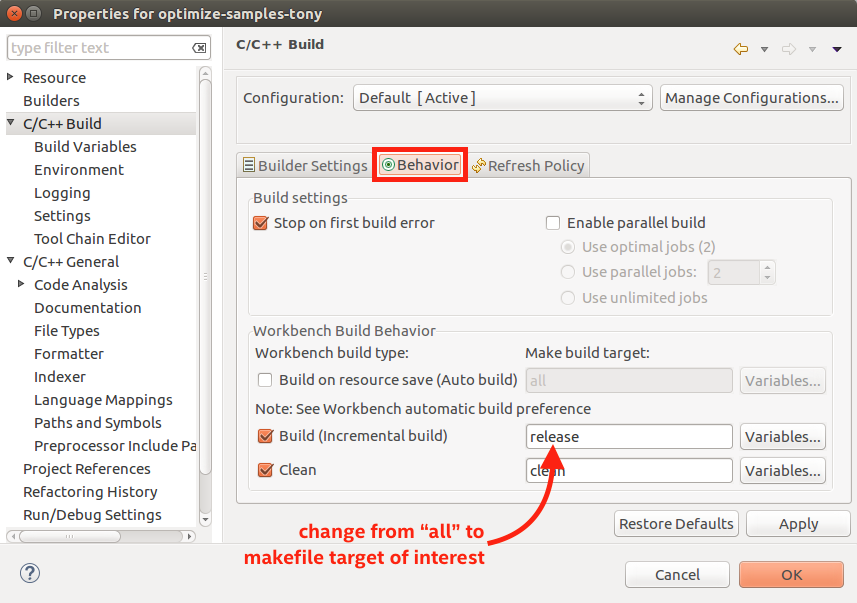
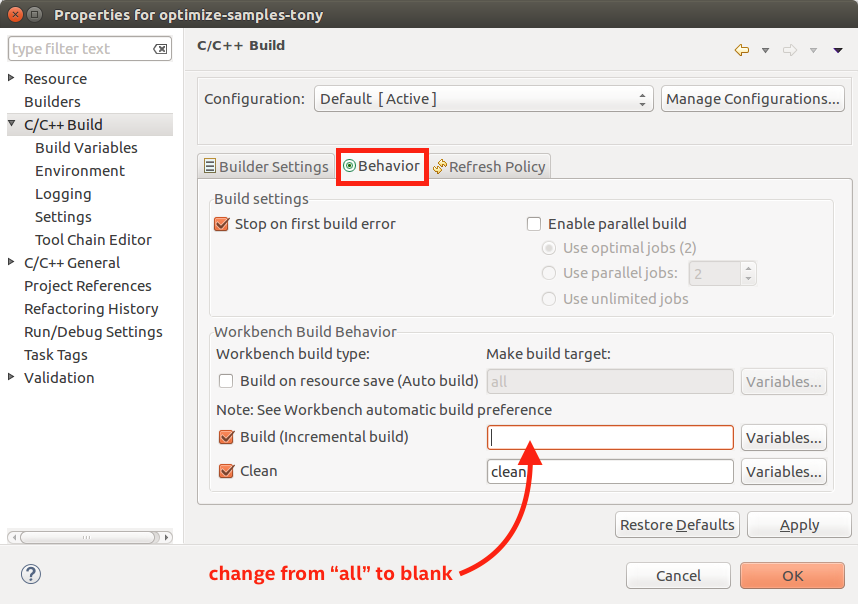
Recommend using "blank" make target rather than "release" make target.
This will result in a higher degree of success when building these samples using an imported make project, because there is no regular naming of the make targets within the samples.

diff --git a/README.md b/README.md
@@ -31,7 +31,7 @@ Import a Sample into Intel System Studio (Eclipse)
 --------------------------------------------------
 
 >   **IMPORTANT!** When you use the import procedure defined below, Eclipse will
->   *“import in place.”* This means the sample folder will be converted to an
+>   *"import in place."* This means the sample folder will be converted to an
 >   Eclipse project, it *will not* be copied to your Eclipse workspace folder as
 >   part of the import. If you want the sample to be located within your Eclipse
 >   workspace you must first *copy* or *move* the sample to your workspace
@@ -53,13 +53,13 @@ System Studio.
 >   It is also possible to use the command-line to build these projects, outside
 >   of Intel System Studio. That usage is outside the scope of this README.
 
-### Enable “unsupported” wizards
+### Enable "unsupported" wizards
 
 ~~~~~~~~~~~~~~~~~~~~~~~~~~~~~~~~~~~~~~~~~~~~~~~~~~~~~~~~~~~~~~~~~~~~~~~~~~~~~~~~
 Window > Preferences > Intel System Studio
 ~~~~~~~~~~~~~~~~~~~~~~~~~~~~~~~~~~~~~~~~~~~~~~~~~~~~~~~~~~~~~~~~~~~~~~~~~~~~~~~~
 
-Clear the box labeled *“Hide unsupported wizards.”* and click the **OK** button.
+Clear the box labeled *"Hide unsupported wizards."* and click the **OK** button.
 
 >   NOTE: on Apple\* macOS\* the Preferences dialog is located in the
 >   `Intel(R)System Studio` menu, not the `Window` menu.
@@ -90,21 +90,21 @@ Open the project properties so you can fine tune the build commands:
 Project > Properties > C/C++ Build > Tool Chain Editor
 ~~~~~~~~~~~~~~~~~~~~~~~~~~~~~~~~~~~~~~~~~~~~~~~~~~~~~~~~~~~~~~~~~~~~~~~~~~~~~~~~
 
-Make sure the “**Current builder:**” field is configured to use the “**Gnu Make
-Builder**.”
+Make sure the "**Current builder:**" field is configured to use the "**Gnu Make
+Builder**."
 
 ![](images/gnu-make-builder.png)
 
 Select the **C/C++ Build** item from the list of properties on the left. Make
-sure the “**Build Settings**” tab is selected and clear the “**Generate
-Makefiles automatically**” checkbox is cleared. Also, be sure the “**Build
-directory:**” field points to the root of your project (assuming that is where
+sure the "**Build Settings**" tab is selected and clear the "**Generate
+Makefiles automatically**" checkbox is cleared. Also, be sure the "**Build
+directory:**" field points to the root of your project (assuming that is where
 the project `Makefile` is located).
 
 ![](images/builder-settings.png)
 
-On the same property panel, select the “**Behavior**” tab and change the
-“**Build (Incremental build)**” field so it matches the `Makefile` build target
+On the same property panel, select the "**Behavior**" tab and change the
+"**Build (Incremental build)**" field so it matches the `Makefile` build target
 of interest.
 
 >   **NOTE:** The precise name of the make target of interest depends on how the
@@ -113,28 +113,36 @@ of interest.
 
 See the README file inside the sample you have imported for a description of the
 make target(s) in order to figure out what target name to put in this field
-(usually this information is in a section of the README titled *“for Linux\*
-command-line users”*). If the README file is an html file (`readme.html`) you
+(usually this information is in a section of the README titled *"for Linux\*
+command-line users"*). If the README file is an html file (`readme.html`) you
 can view it in the Eclipse edit window by double-clicking that file in the
 Eclipse Project Explorer.
 
 If it is unclear what the make target should be, leave this field blank or try
-using “release” as the make target (as shown in the screenshot below).
+using "release" as the make target (as shown in the screenshot below).
 
 ![](images/set-makefile-target.png)
 
 ### Build and run the project
 
-Now that your project is configured, you can perform a build and run as you
-would with any Eclipse project. If the make target is incorrect, you may see
-build errors in the build output console; in that case, review the `Makefile`
-and the included README for information regarding what the make targets do, and
-update the make target name in the “**Build (Incremental build)**” field on the
-“**Behavior**” tab of the “**C/C++ Build**” properties panel, as shown in the
-screenshot above.
+Now that your project is configured, you can perform a build and run the build
+sample as you would with any Eclipse project.
 
- 
+If a blank make target does not work, or does not build what you need,  review
+the sample's `Makefile` and README files for information regarding the make
+targets available in that sample's `Makefile`, and update the make target name
+in the "**Build (Incremental build)**" field on the "**Behavior**" tab of the
+"**C/C++ Build**" properties panel to match the desired make target.
 
-\* [Trademark Information][2].
+For example, if you want the Eclipse builder to perform a `make debug` with
+your project (assuming `debug` is a valid make target in your sample's
+`Makefile`), then change the "**Build (Incremental build)**" field on the
+"**Behavior**" tab of the "**C/C++ Build**" properties panel from an empty
+(blank) field to one that says `debug`. Now, when you perform a build of your
+project it will execute a `make debug` command.
+
+
+
+### \* [Trademark Information][2].
 
 [2]: https://www.intel.com/content/www/us/en/legal/trademarks.html
